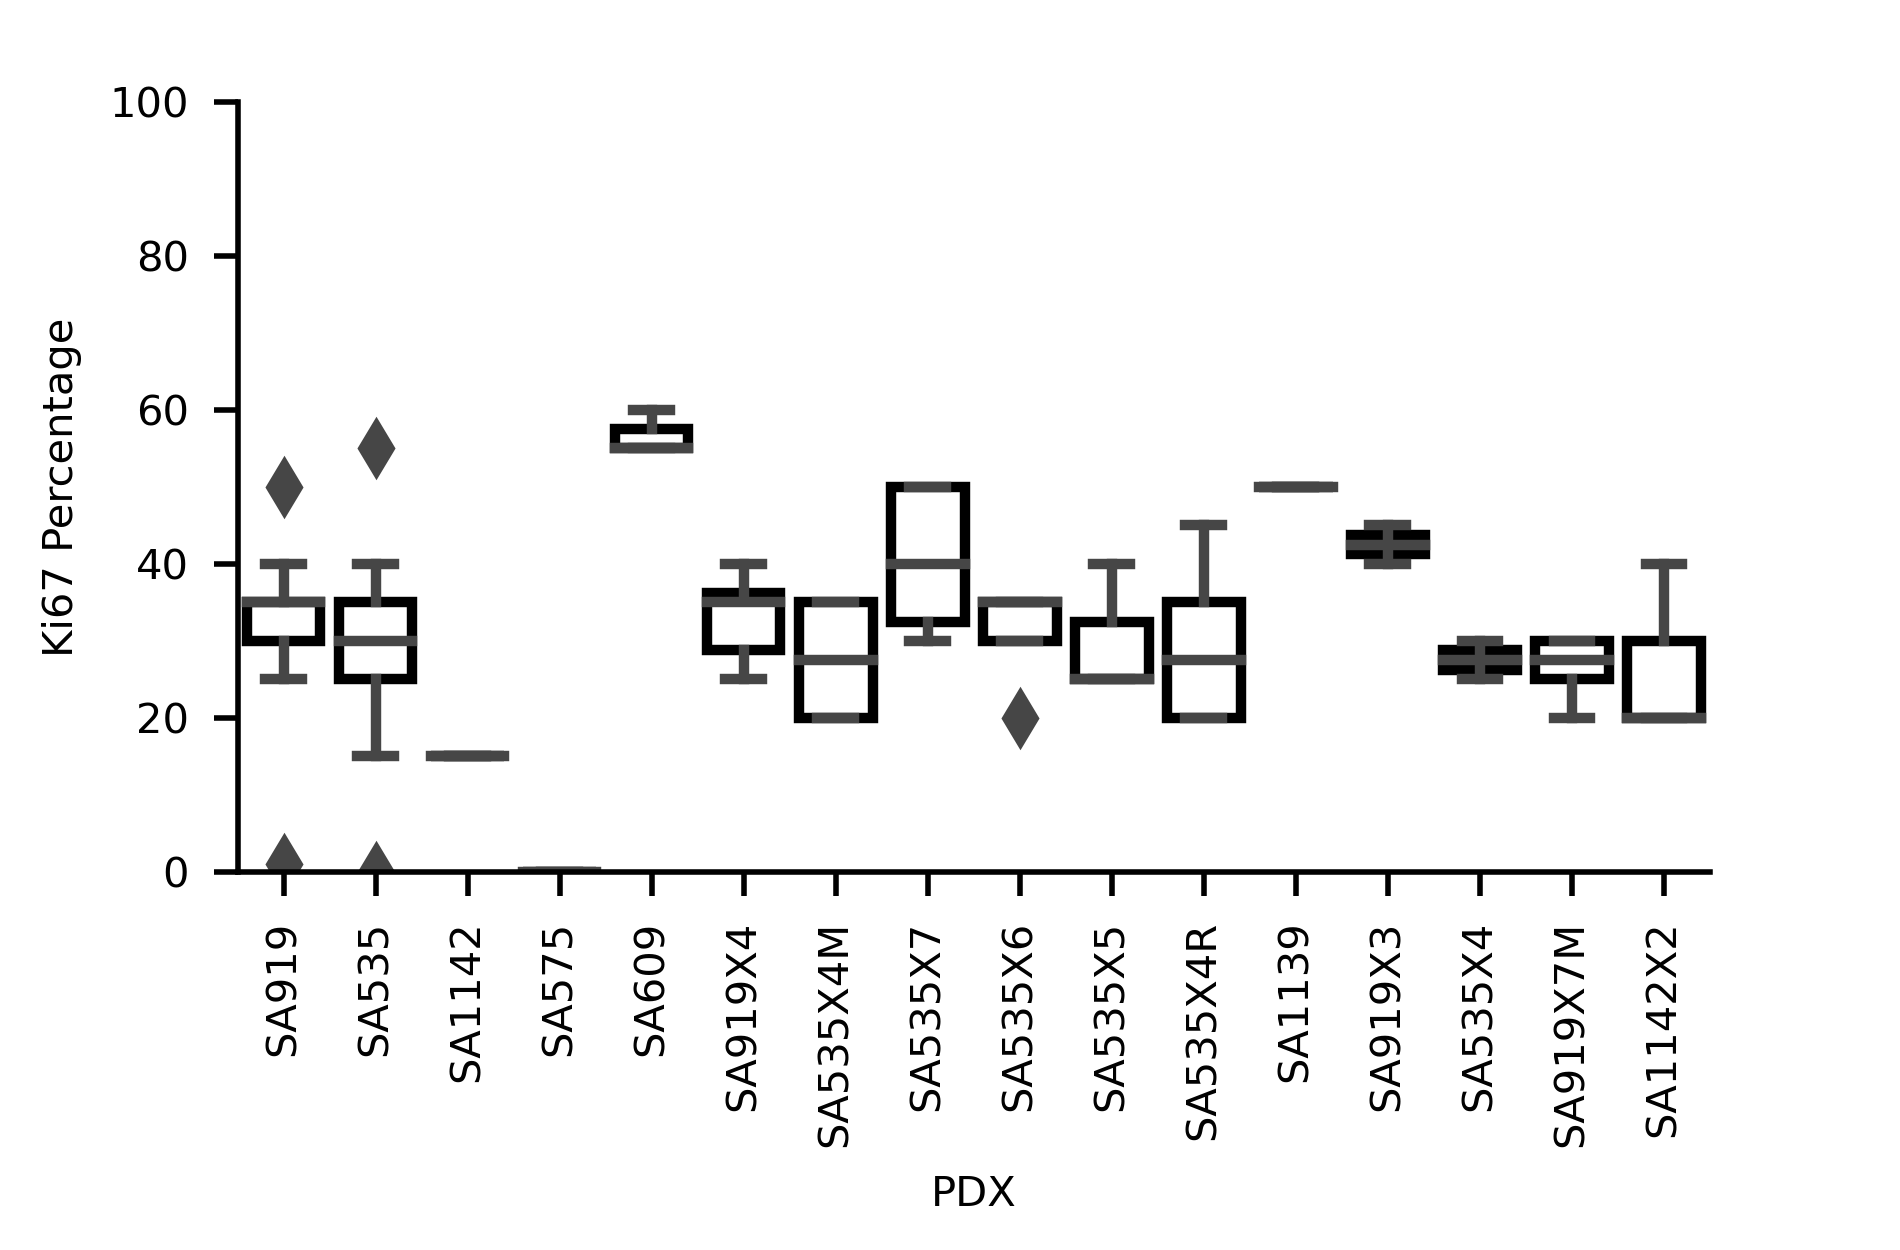
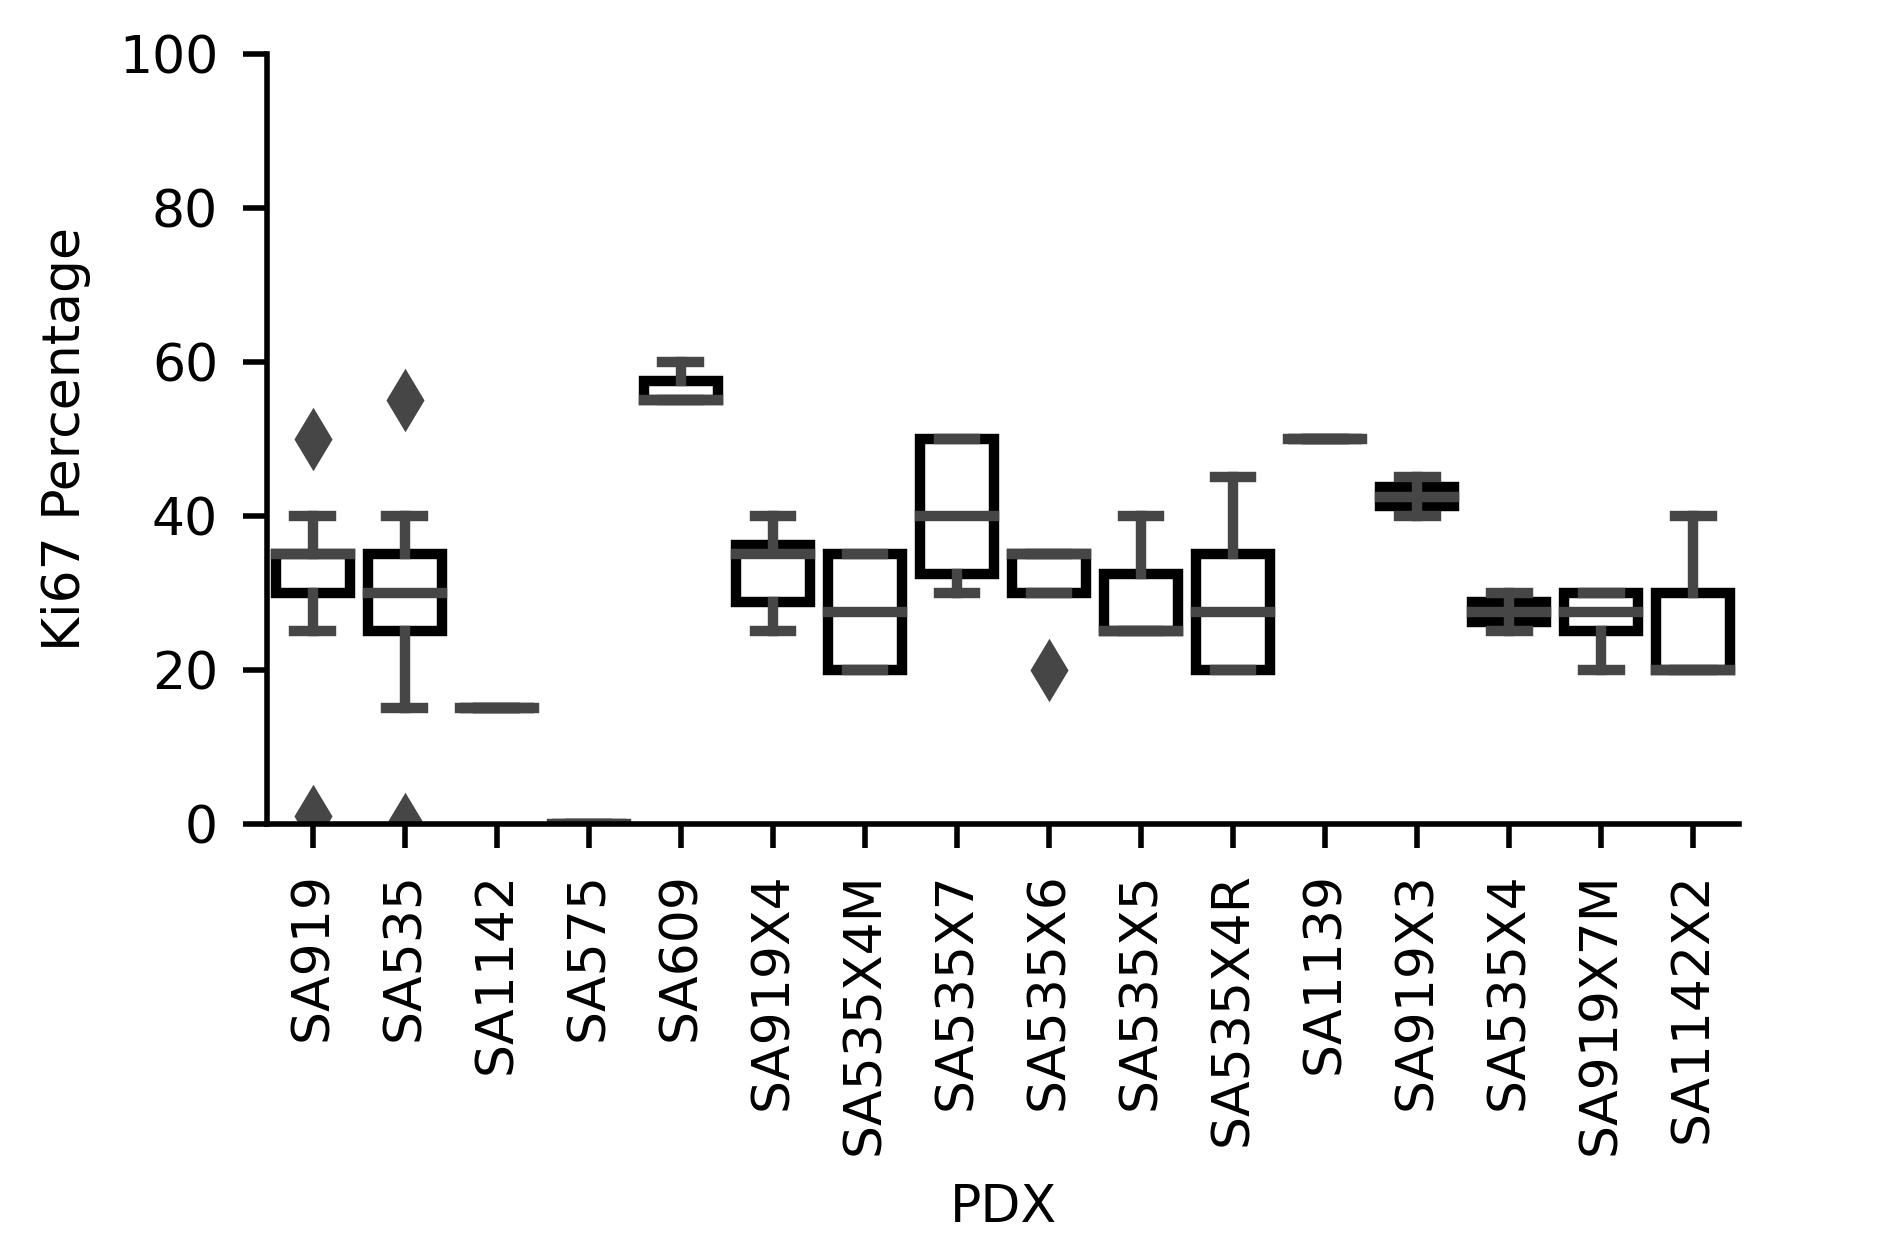
updated figures

diff --git a/figures/metastasis_manuscript_fig.py b/figures/metastasis_manuscript_fig.py
@@ -34,39 +34,39 @@ if __name__ == '__main__':
     2. Plot Fig 1 Met and nonMet
     """
 
-    fig, ax = plt.subplots(1, 1, figsize=(3.8, 2.5))
+    fig, ax = plt.subplots(1, 1, figsize=(4.3, 2.5))
     sns.lineplot(data=met, x="Weeks", y="Tumour Volume", hue="ID", style="Replicates",
                  markers=True, dashes=False, linewidth=1, markersize=5, ax=ax)
-    plt.axvline(x=14, color='gray', linestyle='--', linewidth=1)
+    plt.axvline(x=14, color='red', linestyle='--', linewidth=1)
     sns.despine()
-    plt.legend(bbox_to_anchor=(1, 1), frameon=False, fontsize=6)
-    plt.xlabel("Weeks", fontsize=6)
-    plt.ylabel("Tumour Volume $mm^3$", fontsize=6)
-    plt.xticks(fontsize=6)
-    plt.yticks(fontsize=6)
+    plt.legend(bbox_to_anchor=(1, 1), frameon=False, fontsize=7)
+    plt.xlabel("Weeks", fontsize=8)
+    plt.ylabel("Tumour Volume $mm^3$", fontsize=8)
+    plt.xticks(fontsize=7.5)
+    plt.yticks(fontsize=7.5)
     plt.xlim(0, 30)
     plt.ylim(0, max_tumour_volume)
     box = ax.get_position()
-    ax.set_position([box.x0 + box.height * 0.015, box.y0 + box.height * 0.05, box.width * 0.85, box.height * 0.95])
-    plt.title("Tumours with metastasis", weight='bold', fontsize=8)
+    ax.set_position([box.x0 + box.height * 0.02, box.y0 + box.height * 0.05, box.width * 0.85, box.height * 0.95])
+    plt.title("Tumours with metastasis", weight='bold', fontsize=10)
     plt.savefig("figures/output/fig2_met.png", dpi=500)
     plt.clf()
 
-    fig, ax = plt.subplots(1, 1, figsize=(3.8, 2.5))
+    fig, ax = plt.subplots(1, 1, figsize=(4.3, 2.5))
     sns.lineplot(data=nonmet, x="Weeks", y="Tumour Volume", hue="ID", style="Replicates",
                  markers=True, dashes=False, linewidth=1, markersize=5, ax=ax)
-    plt.axvline(x=14, color='gray', linestyle='--', linewidth=1)
+    plt.axvline(x=14, color='red', linestyle='--', linewidth=1)
     sns.despine()
-    plt.legend(bbox_to_anchor=(1.325, 1), frameon=False, fontsize=6)
-    plt.xlabel("Weeks", fontsize=6)
-    plt.ylabel("Tumour Volume $mm^3$", fontsize=6)
-    plt.xticks(fontsize=6)
-    plt.yticks(fontsize=6)
+    plt.legend(bbox_to_anchor=(1.325, 1), frameon=False, fontsize=7)
+    plt.xlabel("Weeks", fontsize=8)
+    plt.ylabel("Tumour Volume $mm^3$", fontsize=8)
+    plt.xticks(fontsize=7.5)
+    plt.yticks(fontsize=7.5)
     plt.xlim(0, 30)
     plt.ylim(0, max_tumour_volume)
     box = ax.get_position()
-    ax.set_position([box.x0 + box.height * 0.015, box.y0 + box.height * 0.05, box.width * 0.85, box.height * 0.95])
-    plt.title("Tumours without metastasis", weight='bold', fontsize=8)
+    ax.set_position([box.x0 + box.height * 0.02, box.y0 + box.height * 0.05, box.width * 0.85, box.height * 0.95])
+    plt.title("Tumours without metastasis", weight='bold', fontsize=10)
     plt.savefig("figures/output/fig2_nonmet.png", dpi=500)
     plt.clf()
 
@@ -77,29 +77,29 @@ if __name__ == '__main__':
 
     fig, ax = plt.subplots(1, 1, figsize=(2.5, 2.5))
     cmap = ["#5a0064d9", "#fb8811d9"]
-    sns.heatmap(fig1_markers, cmap=cmap, cbar=False)
+    sns.heatmap(fig1_markers, cmap=cmap, cbar=False, linewidth=0.75)
     legend_handles = [Patch(color=cmap[True], label='Positive'),
                       Patch(color=cmap[False], label='Negative')]
     plt.legend(handles=legend_handles, ncol=2, bbox_to_anchor=[0.5, 1.0], loc='lower center',
-               frameon=False, fontsize=6)
-    plt.xticks(rotation=90, fontsize=6)
-    plt.yticks(rotation=0, fontsize=6)
+               frameon=False, fontsize=7.5)
+    plt.xticks(rotation=90, fontsize=7.5)
+    plt.yticks(rotation=0, fontsize=7.5)
     box = ax.get_position()
-    ax.set_position([box.x0 + box.width * 0.15, box.y0 + box.height * 0.15, box.width * 0.85, box.height * 0.85])
+    ax.set_position([box.x0 + box.width * 0.2, box.y0 + box.height * 0.2, box.width * 0.85, box.height * 0.85])
     plt.savefig("figures/output/fig2_markers.png", dpi=500)
     plt.clf()
 
     fig8_markers = pd.read_csv("figures/Fig8_markers.csv", index_col=0)
 
-    fig, ax = plt.subplots(1, 1, figsize=(2.5, 1.25))
+    fig, ax = plt.subplots(1, 1, figsize=(2.5, 1.5))
     cmap = ["#5a0064d9", "#fb8811d9"]
-    sns.heatmap(fig8_markers, cmap=cmap, cbar=False)
+    sns.heatmap(fig8_markers, cmap=cmap, cbar=False, linewidth=0.75)
     legend_handles = [Patch(color=cmap[True], label='Positive'),
                       Patch(color=cmap[False], label='Negative')]
     plt.legend(handles=legend_handles, ncol=2, bbox_to_anchor=[0.5, 1.0], loc='lower center',
-               frameon=False, fontsize=6)
-    plt.xticks(rotation=90, fontsize=6)
-    plt.yticks(rotation=0, fontsize=6)
+               frameon=False, fontsize=7.5)
+    plt.xticks(rotation=90, fontsize=7.5)
+    plt.yticks(rotation=0, fontsize=7.5)
     box = ax.get_position()
     ax.set_position([box.x0, box.y0 + box.height * 0.3, box.width, box.height * 0.65])
     plt.savefig("figures/output/fig8_markers.png", dpi=500)
@@ -114,79 +114,78 @@ if __name__ == '__main__':
     for i, box in enumerate(ax.artists):
         box.set_edgecolor('black')
         box.set_facecolor('white')
-    sns.swarmplot(x="group", y="H-score", data=fig8_919, linewidth=1, ax=ax, size=5)
+    sns.swarmplot(x="group", y="H-score", data=fig8_919, linewidth=1, ax=ax, size=7)
     sns.despine()
-    plt.ylim(0, 200)
-    plt.xticks(fontsize=6)
-    plt.yticks(fontsize=6)
+    plt.ylim(-10, 200)
+    plt.xticks(fontsize=7.5)
+    plt.yticks(fontsize=7.5)
     ax.set_xticklabels(["Passage 3 & 4", "Passage 7"])
     plt.xlabel("", fontsize=6)
-    plt.ylabel("H-score", fontsize=6)
+    plt.ylabel("H-score", fontsize=7.5)
     plt.title("EGFR SA919", weight='bold', fontsize=8)
     plt.savefig("figures/output/fig8_919_egfr.png", dpi=500)
     plt.clf()
 
     fig8_535 = pd.read_csv("figures/Fig8_535_EGFR.csv")
+    fig8_535 = fig8_535[fig8_535["group"] == "X4"]
     fig, ax = plt.subplots(1, 1, figsize=(3.8, 2.5))
     sns.boxplot(x="group", y="H-score", data=fig8_535, linewidth=1.5, ax=ax)
     for i, box in enumerate(ax.artists):
         box.set_edgecolor('black')
         box.set_facecolor('white')
-    sns.swarmplot(x="group", y="H-score", data=fig8_535, linewidth=1, ax=ax, size=5)
+    sns.swarmplot(x="group", y="H-score", hue="site", data=fig8_535, linewidth=1, ax=ax, size=7)
     sns.despine()
     plt.ylim(0, 200)
-    plt.xticks(fontsize=6)
-    plt.yticks(fontsize=6)
-    ax.set_xticklabels(["Passage 4", "Passage 6 & 7"])
-    plt.xlabel("", fontsize=6)
-    plt.ylabel("H-score", fontsize=6)
-    plt.title("EGFR SA535", weight='bold', fontsize=8)
-    plt.savefig("figures/output/fig8_535_egfr.png", dpi=500)
+    plt.xticks(fontsize=7.5)
+    plt.yticks(fontsize=7.5)
+    ax.set_xticklabels(["Passage 4"])
+    plt.xlabel("", fontsize=7.5)
+    plt.ylabel("H-score", fontsize=7.5)
+    plt.legend(bbox_to_anchor=(0.95, 1), frameon=False, fontsize=7.5)
+    box = ax.get_position()
+    ax.set_position([box.x0 + box.height * 0.02, box.y0 + box.height * 0.05, box.width * 0.85, box.height * 0.95])
+    plt.title("SA535 EGFR H-Score", weight='bold', fontsize=8)
+    plt.savefig("figures/output/fig8_535_egfr_hscore.png", dpi=500)
     plt.clf()
 
-    fig8_535 = pd.read_csv("figures/Fig8_535_EGFR.csv")
     fig, ax = plt.subplots(1, 1, figsize=(3.8, 2.5))
-    for i in range(len(fig8_535["site"])):
-        if fig8_535["site"][i] != "lung":
-            fig8_535["site"][i] = "other"
-    fig8_535 = fig8_535.sort_values(by=["site"])
-
-    sns.boxplot(x="site", y="H-score", data=fig8_535, linewidth=1.5, ax=ax)
+    sns.boxplot(x="group", y="Intensity", data=fig8_535, linewidth=1.5, ax=ax)
     for i, box in enumerate(ax.artists):
         box.set_edgecolor('black')
         box.set_facecolor('white')
-    sns.swarmplot(x="site", y="H-score", data=fig8_535, linewidth=1, ax=ax, size=5)
+    sns.swarmplot(x="group", y="Intensity", hue="site", data=fig8_535, linewidth=1, ax=ax, size=7)
     sns.despine()
-    plt.ylim(0, 200)
-    plt.xticks(fontsize=6)
-    plt.yticks(fontsize=6)
-    ax.set_xticklabels(["Lung", "Other"])
-    plt.xlabel("", fontsize=6)
-    plt.ylabel("H-score", fontsize=6)
-    plt.title("EGFR SA535", weight='bold', fontsize=8)
-    plt.savefig("figures/output/fig8_535_egfr_lung.png", dpi=500)
+    plt.ylim(0, 5)
+    plt.xticks(fontsize=7.5)
+    plt.yticks(fontsize=7.5)
+    ax.set_xticklabels(["Passage 4"])
+    plt.xlabel("", fontsize=7.5)
+    plt.ylabel("Intensity", fontsize=7.5)
+    plt.legend(bbox_to_anchor=(0.95, 1), frameon=False, fontsize=7.5)
+    box = ax.get_position()
+    ax.set_position([box.x0 + box.height * 0.02, box.y0 + box.height * 0.05, box.width * 0.85, box.height * 0.95])
+    plt.title("SA535 EGFR Intensity", weight='bold', fontsize=8)
+    plt.savefig("figures/output/fig8_535_egfr_intensity.png", dpi=500)
     plt.clf()
 
-    fig8_535 = pd.read_csv("figures/Fig8_535_EGFR.csv")
     fig, ax = plt.subplots(1, 1, figsize=(3.8, 2.5))
-    for i in range(len(fig8_535["site"])):
-        if fig8_535["site"][i] != "lung":
-            fig8_535["site"][i] = "other"
-    fig8_535 = fig8_535[fig8_535["site"] == "other"]
-    sns.boxplot(x="group", y="H-score", data=fig8_535, linewidth=1.5, ax=ax)
+    sns.boxplot(x="group", y="percentage", data=fig8_535, linewidth=1.5, ax=ax)
     for i, box in enumerate(ax.artists):
         box.set_edgecolor('black')
         box.set_facecolor('white')
-    sns.swarmplot(x="group", y="H-score", data=fig8_535, linewidth=1, ax=ax, size=5)
+    sns.swarmplot(x="group", y="percentage", hue="site", data=fig8_535, linewidth=1, ax=ax, size=7)
     sns.despine()
-    plt.ylim(0, 200)
-    plt.xticks(fontsize=6)
-    plt.yticks(fontsize=6)
-    ax.set_xticklabels(["Passage 4", "Passage 6 & 7"])
-    plt.xlabel("", fontsize=6)
-    plt.ylabel("H-score", fontsize=6)
-    plt.title("EGFR SA535 without lung metastasis", weight='bold', fontsize=8)
-    plt.savefig("figures/output/fig8_535_egfr_nolung.png", dpi=500)
+    plt.ylim(0, 100)
+    plt.xticks(fontsize=7.5)
+    plt.yticks(fontsize=7.5)
+    ax.set_xticklabels(["Passage 4"])
+    plt.xlabel("", fontsize=7.5)
+    plt.ylabel("Percentage", fontsize=7.5)
+    plt.legend(bbox_to_anchor=(0.95, 1), frameon=False, fontsize=7.5)
+    box = ax.get_position()
+    ax.set_position([box.x0 + box.height * 0.02, box.y0 + box.height * 0.05, box.width * 0.85, box.height * 0.95])
+    plt.title("SA535 EGFR Percentage", weight='bold', fontsize=8)
+    plt.savefig("figures/output/fig8_535_egfr_percentage.png", dpi=500)
     plt.clf()
 
     """
@@ -200,11 +199,78 @@ if __name__ == '__main__':
         box.set_facecolor('white')
     sns.despine()
     plt.ylim(0, 100)
-    plt.xticks(rotation=90, fontsize=6)
-    plt.yticks(fontsize=6)
-    plt.xlabel("PDX", fontsize=6)
-    plt.ylabel("Ki67 Percentage", fontsize=6)
+    plt.xticks(rotation=90, fontsize=7.5)
+    plt.yticks(fontsize=7.5)
+    plt.xlabel("PDX", fontsize=7.5)
+    plt.ylabel("Ki67 Percentage", fontsize=7.5)
     box = ax.get_position()
-    ax.set_position([box.x0, box.y0 + box.height * 0.25, box.width, box.height * 0.8])
+    ax.set_position([box.x0 + box.height * 0.02, box.y0 + box.height * 0.3, box.width, box.height * 0.8])
     plt.savefig("figures/output/fig2_ki67.png", dpi=500)
     plt.clf()
+
+    """
+    Old Code
+    """
+    # fig8_535 = pd.read_csv("figures/Fig8_535_EGFR.csv")
+    # fig, ax = plt.subplots(1, 1, figsize=(3.8, 2.5))
+    # sns.boxplot(x="group", y="H-score", data=fig8_535, linewidth=1.5, ax=ax)
+    # for i, box in enumerate(ax.artists):
+    #     box.set_edgecolor('black')
+    #     box.set_facecolor('white')
+    # sns.swarmplot(x="group", y="H-score", data=fig8_535, linewidth=1, ax=ax, size=5)
+    # sns.despine()
+    # plt.ylim(0, 200)
+    # plt.xticks(fontsize=6)
+    # plt.yticks(fontsize=6)
+    # ax.set_xticklabels(["Passage 4", "Passage 6 & 7"])
+    # plt.xlabel("", fontsize=6)
+    # plt.ylabel("H-score", fontsize=6)
+    # plt.title("EGFR SA535", weight='bold', fontsize=8)
+    # plt.savefig("figures/output/fig8_535_egfr.png", dpi=500)
+    # plt.clf()
+
+    # fig8_535 = pd.read_csv("figures/Fig8_535_EGFR.csv")
+    # fig, ax = plt.subplots(1, 1, figsize=(3.8, 2.5))
+    # for i in range(len(fig8_535["site"])):
+    #     if fig8_535["site"][i] != "lung":
+    #         fig8_535["site"][i] = "other"
+    # fig8_535 = fig8_535.sort_values(by=["site"])
+    #
+    # sns.boxplot(x="site", y="H-score", data=fig8_535, linewidth=1.5, ax=ax)
+    # for i, box in enumerate(ax.artists):
+    #     box.set_edgecolor('black')
+    #     box.set_facecolor('white')
+    # sns.swarmplot(x="site", y="H-score", data=fig8_535, linewidth=1, ax=ax, size=5)
+    # sns.despine()
+    # plt.ylim(0, 200)
+    # plt.xticks(fontsize=6)
+    # plt.yticks(fontsize=6)
+    # ax.set_xticklabels(["Lung", "Other"])
+    # plt.xlabel("", fontsize=6)
+    # plt.ylabel("H-score", fontsize=6)
+    # plt.title("EGFR SA535", weight='bold', fontsize=8)
+    # plt.savefig("figures/output/fig8_535_egfr_lung.png", dpi=500)
+    # plt.clf()
+    #
+    # fig8_535 = pd.read_csv("figures/Fig8_535_EGFR.csv")
+    # fig, ax = plt.subplots(1, 1, figsize=(3.8, 2.5))
+    # for i in range(len(fig8_535["site"])):
+    #     if fig8_535["site"][i] != "lung":
+    #         fig8_535["site"][i] = "other"
+    # fig8_535 = fig8_535[fig8_535["site"] == "other"]
+    # sns.boxplot(x="group", y="H-score", data=fig8_535, linewidth=1.5, ax=ax)
+    # for i, box in enumerate(ax.artists):
+    #     box.set_edgecolor('black')
+    #     box.set_facecolor('white')
+    # sns.swarmplot(x="group", y="H-score", data=fig8_535, linewidth=1, ax=ax, size=5)
+    # sns.despine()
+    # plt.ylim(0, 200)
+    # plt.xticks(fontsize=6)
+    # plt.yticks(fontsize=6)
+    # ax.set_xticklabels(["Passage 4", "Passage 6 & 7"])
+    # plt.xlabel("", fontsize=6)
+    # plt.ylabel("H-score", fontsize=6)
+    # plt.title("EGFR SA535 without lung metastasis", weight='bold', fontsize=8)
+    # plt.savefig("figures/output/fig8_535_egfr_nolung.png", dpi=500)
+    # plt.clf()
+    #
